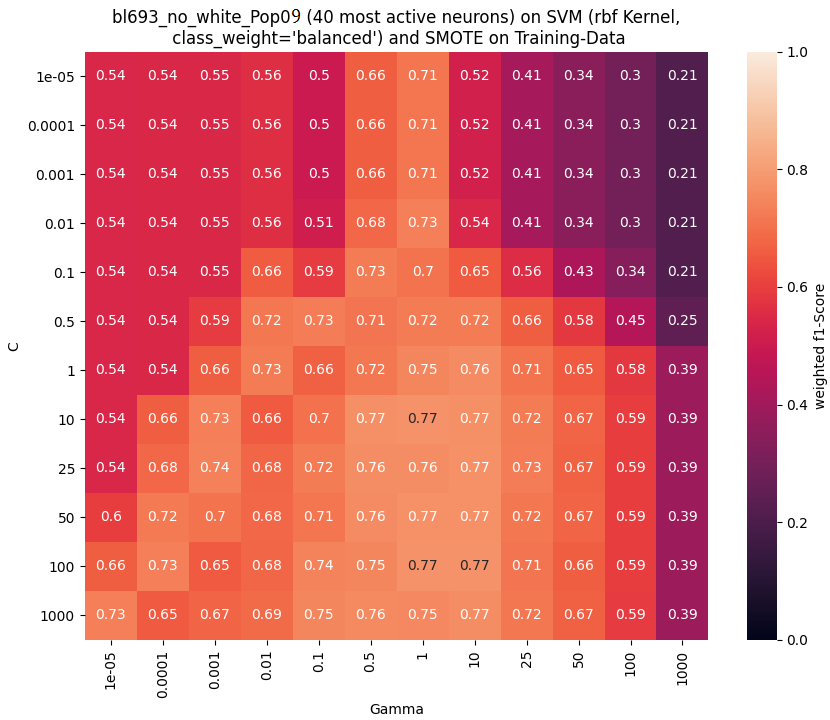
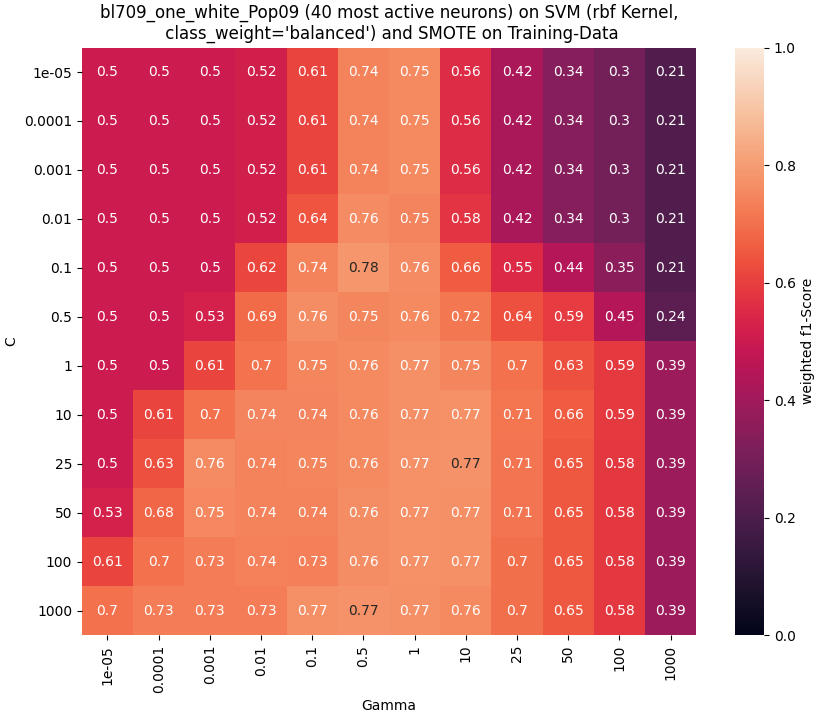
.

diff --git a/Skripte/main.py b/Skripte/main.py
@@ -21,11 +21,11 @@ a.split_trial_wise()
 a.use_SMOTE()
 #a.use_SMOTE()
 #a.shuffle_labels()
-a.do_SVM(kernel='poly', c=1, gamma=1, class_weight='balanced')
+#a.do_SVM(kernel='rbf', c=1, gamma=1, class_weight='balanced')
 #print("Macro: ",a.get_f1(avg="macro"))
 #print("Micro: ", a.get_f1(avg="micro"))
-print("Weighted: ",a.get_f1(avg="weighted"))
-a.plot_CM(title="bl693_no_white_Pop09,\n SMOTE on Training-Data\n SVM(kernel='poly',degree=3 c=1, class_weight='balanced')")
-#c = [0.00001, 0.0001, 0.001, 0.01, 0.1, 0.5, 1, 10, 25, 50, 100, 1000]
-#title="bl693_no_white_Pop05 (40 most active neurons) on SVM (rbf Kernel,\n class_weight='balanced') and SMOTE on Training-Data"
-#a.grid_search(title, C=c, Y=c, kernel='rbf')
+#print("Weighted: ",a.get_f1(avg="weighted"))
+#a.plot_CM(title="bl693_no_white_Pop09,\n SMOTE on Training-Data\n SVM(kernel='poly',degree=3 c=1, class_weight='balanced')")
+c = [0.00001, 0.0001, 0.001, 0.01, 0.1, 0.5, 1, 10, 25, 50, 100, 1000]
+title="bl709_one_white_Pop09 (40 most active neurons) on SVM (rbf Kernel,\n class_weight='balanced') and SMOTE on Training-Data"
+a.grid_search(title, C=c, Y=c, kernel='rbf')
